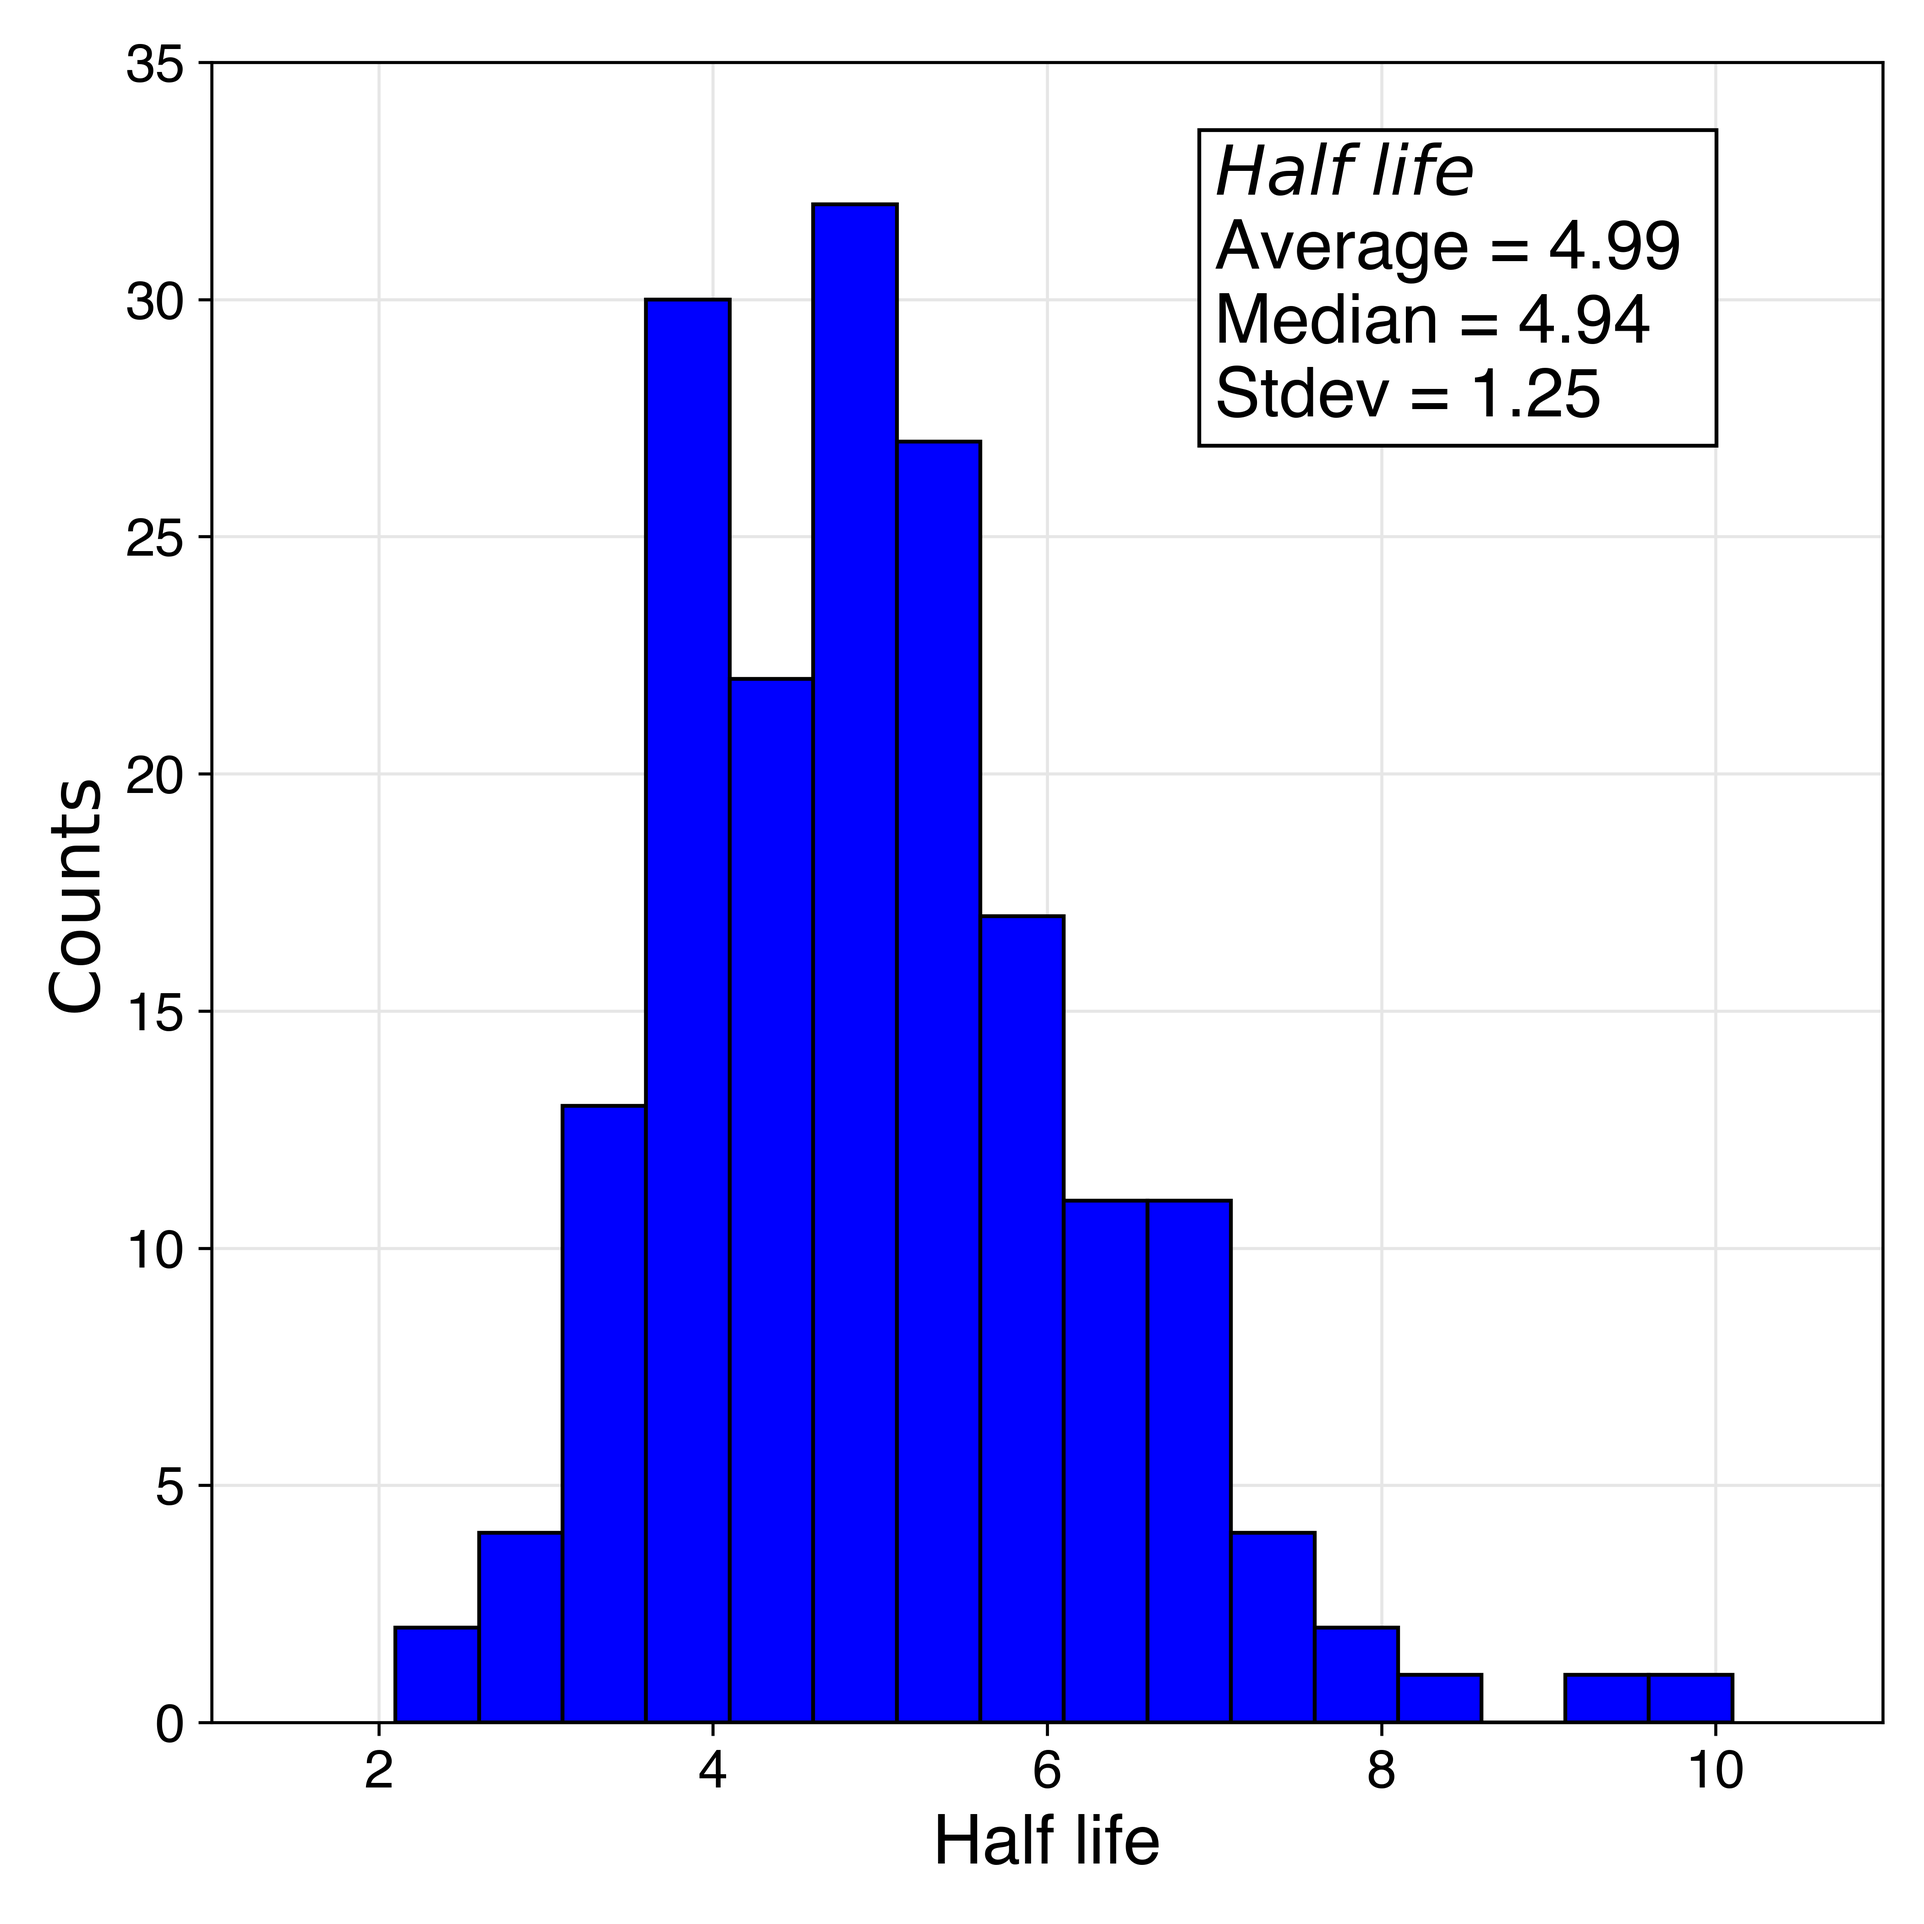
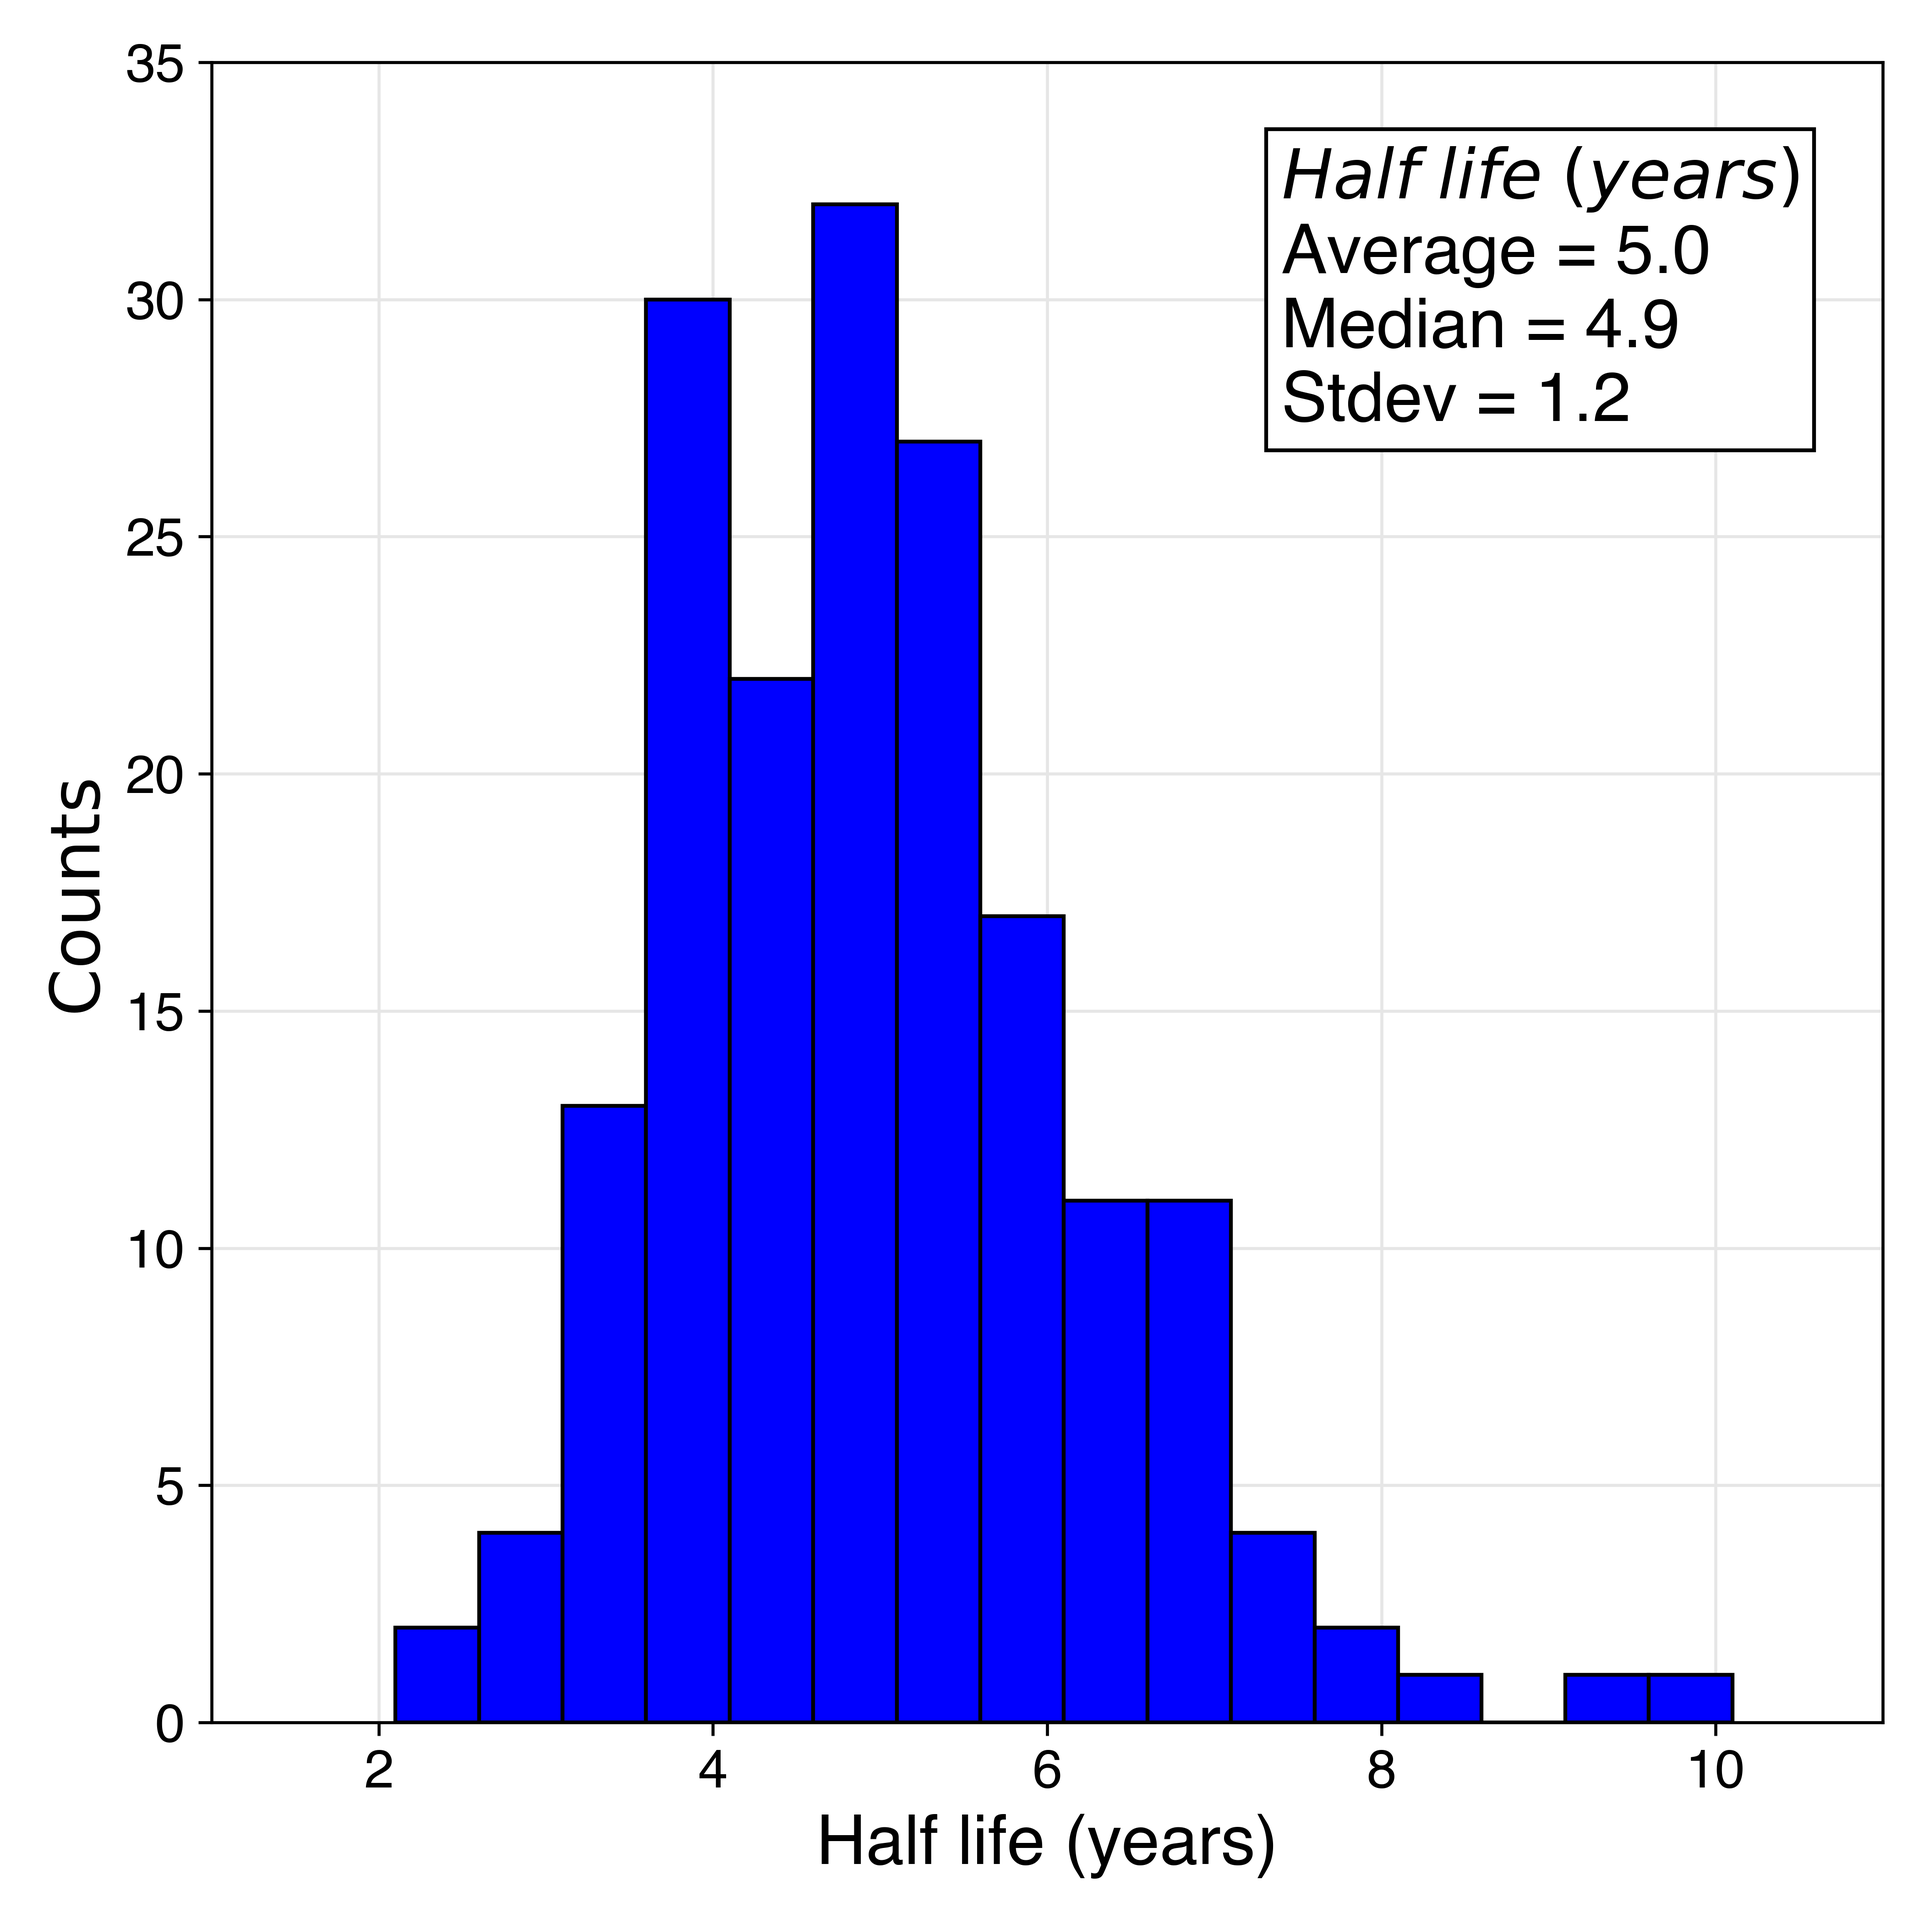
Continued analysis

Changed region(s): [[0.6238, 0.0624, 0.9357, 0.2495], [0.4055, 0.9357, 0.655, 0.9669]]

diff --git a/flaskapp/flask_dealsonwheels/templates/output.html b/flaskapp/flask_dealsonwheels/templates/output.html
@@ -49,10 +49,10 @@
 
 
     <div class="starter-template">
-        <div class="row">
-        <div class="col-lg-6">
+        <div class="row justify-content-around">
+            <div class="child inline-block-child">
             
-            <img src={{url_for('static', filename=input_model_filename)}} alt="Depreciation curve" width="900" height="650" align="left">
+            <img src={{url_for('static', filename=input_model_filename)}} alt="Depreciation curve" width="900" height="700" align="left">
 
                 </table>
             </div>

diff --git a/flaskapp/flask_dealsonwheels/views.py b/flaskapp/flask_dealsonwheels/views.py
@@ -42,19 +42,21 @@ make_choices = model_counts_filtered['Make'].unique()
 
 # create global input_make
 global_input_make = None
+global makes
+makes = ['Acura', 'Audi', 'BMW', 'Buick', 'Cadillac', 'Chevrolet',
+         'Chrysler', 'Dodge', 'Ford', 'GMC', 'Honda', 'Hyundai', 'INFINITI',
+         'Jaguar', 'Jeep', 'Kia', 'Land Rover', 'Lexus', 'Lincoln', 'MAZDA',
+         'MINI', 'Maserati', 'Mercedes-Benz', 'Mitsubishi', 'Nissan',
+         'Porsche', 'smart', 'Subaru', 'Toyota', 'Volkswagen', 'Volvo']
+
+
 
 ### DEFINE FUNCTIONS ###
 
 def make_dropdown(input_make):
-    makes = ['Acura', 'Audi', 'BMW', 'Buick', 'Cadillac', 'Chevrolet',
-             'Chrysler', 'Dodge', 'Ford', 'GMC', 'Honda', 'Hyundai', 'INFINITI',
-             'Jaguar', 'Jeep', 'Kia', 'Land Rover', 'Lexus', 'Lincoln', 'MAZDA',
-             'MINI', 'Maserati', 'Mercedes-Benz', 'Mitsubishi', 'Nissan',
-             'Porsche', 'Subaru', 'Toyota', 'Volkswagen', 'Volvo', 'smart']
-
-    # models = np.unique(make_model_list_filtered[make_model_list_filtered['Make'] == makes[int(input_make)]]['Model'].tolist())   
+    # global makes
     models = np.unique(model_counts_filtered[model_counts_filtered['Make'] == makes[int(input_make)]]['Model'].tolist())   
-    
+    models.sort()
     make_name = makes[int(input_make)]
     
     dropdown_html = "<select id=\"input_model\" name=\"input_model\">\n"
@@ -63,20 +65,6 @@ def make_dropdown(input_make):
     dropdown_html += "</select>\n"
     return dropdown_html, make_name
 
-# def get_model_name(input_make, input_model):
-#     model_name = make_model_list_filtered[make_model_list_filtered['Make'] == makes[int(input_make)]]['Model'].tolist()[int(input_model)]
-#     return model_name
-
-
-# def models(input_make):
-#     makes = ['Acura', 'Audi', 'BMW', 'Buick', 'Cadillac', 'Chevrolet',
-#      'Chrysler', 'Dodge', 'Ford', 'GMC', 'Honda', 'Hyundai', 'INFINITI',
-#      'Jaguar', 'Jeep', 'Kia', 'Land Rover', 'Lexus', 'Lincoln', 'MAZDA',
-#      'MINI', 'Maserati', 'Mercedes-Benz', 'Mitsubishi', 'Nissan',
-#      'Porsche', 'Subaru', 'Toyota', 'Volkswagen', 'Volvo', 'smart']
-#     models = make_model_list_filtered[make_model_list_filtered['Make'] == makes[int(input_make)]]['Model'].tolist()   
-#     models.sort()
-#     return models
 
 
 ### DEFINE FLASK FUNCTIONS ###
@@ -90,38 +78,33 @@ def index():
 
 
 
-@app.route('/models')
+@app.route('/models') #, methods = ['GET', 'POST'])           # trying to avoid global variable
 def get_models():
-    # pull car make from user input dropdown
-    makes = ['Acura', 'Audi', 'BMW', 'Buick', 'Cadillac', 'Chevrolet',
-             'Chrysler', 'Dodge', 'Ford', 'GMC', 'Honda', 'Hyundai', 'INFINITI',
-             'Jaguar', 'Jeep', 'Kia', 'Land Rover', 'Lexus', 'Lincoln', 'MAZDA',
-             'MINI', 'Maserati', 'Mercedes-Benz', 'Mitsubishi', 'Nissan',
-             'Porsche', 'Subaru', 'Toyota', 'Volkswagen', 'Volvo', 'smart']
+    global makes
     input_make = request.args.get('input_make')
     global global_input_make 
     global_input_make = input_make
     make_name = makes[int(input_make)]
     (dropdown_html, make_name) = make_dropdown(input_make)
     # global_input_make = None
+    # if request.method == 'POST':                            # trying to avoid global variable
+    #     input_make = request.form.get('input_make')
+    #     return redirect(url_for('output', input_make=input_make))
     return render_template("models.html", input_make=input_make, dropdown_html=dropdown_html, make_name=make_name)
+
 
 
 @app.route('/output')
 def output():
-    makes = ['Acura', 'Audi', 'BMW', 'Buick', 'Cadillac', 'Chevrolet',
-         'Chrysler', 'Dodge', 'Ford', 'GMC', 'Honda', 'Hyundai', 'INFINITI',
-         'Jaguar', 'Jeep', 'Kia', 'Land Rover', 'Lexus', 'Lincoln', 'MAZDA',
-         'MINI', 'Maserati', 'Mercedes-Benz', 'Mitsubishi', 'Nissan',
-         'Porsche', 'Subaru', 'Toyota', 'Volkswagen', 'Volvo', 'smart']
-    
+    global makes
     # pull 'input_model' from input field and store it
     input_model = request.args.get('input_model')
-    # input_make = request.args.get('input_make')
-    input_model_name = model_counts_filtered[model_counts_filtered['Make'] == makes[int(global_input_make)]]['Model'].iloc[int(input_model)]
+    # input_make = request.args.get('input_make', None)       # trying to avoid global variable
+    input_model_name = model_counts_filtered[model_counts_filtered['Make'] == makes[int(global_input_make)]]['Model'].sort_values().iloc[int(input_model)]
     input_model_filename = str(input_model_name) + '.png'
     
     return render_template("output.html", input_model=input_model, input_model_filename=input_model_filename)
+
 
 
 @app.route('/random')
@@ -138,36 +121,8 @@ def random():
 
 
 
-
-
-
-
-
 @app.route('/about')
 def about():
     return render_template("about.html")
 
 
-    
-
-
-
-
-
-
-
-
-# @app.route('/output')
-# def output():
-#   #pull 'birth_month' from input field and store it
-#   patient = request.args.get('birth_month')
-#     #just select the Cesareans  from the birth dtabase for the month that the user inputs
-#   query = "SELECT index, attendant, birth_month FROM birth_data_table WHERE delivery_method='Cesarean' AND birth_month='%s'" % patient
-#   print(query)
-#   query_results=pd.read_sql_query(query,con)
-#   print(query_results)
-#   births = []
-#   for i in range(0,query_results.shape[0]):
-#       births.append(dict(index=query_results.iloc[i]['index'], attendant=query_results.iloc[i]['attendant'], birth_month=query_results.iloc[i]['birth_month']))
-#       the_result = ModelIt(patient,births)
-#       return render_template("output.html", model=model)

diff --git a/scripts/analyze_data_4.py b/scripts/analyze_data_4.py
@@ -25,7 +25,7 @@ average = round(np.nanmean(data), 2)
 median = round(np.nanmedian(data), 2)
 stdev = round(np.std(data), 2)
 props = dict(facecolor='white', edgecolor='none', alpha=0.67, boxstyle='square, pad=1')
-textbox = '$Half$ $life$ \nAverage = %.2f \nMedian = %.2f \nStdev = %.2f' % (average, median, stdev)
+textbox = '$Half$ $life$ $(years)$\nAverage = %.1f \nMedian = %.1f \nStdev = %.1f' % (average, median, stdev)
 
 import numpy as np
 binwidth = 0.5
@@ -33,9 +33,113 @@ xmin = 1
 xmax = 11
 ymin = 0
 ymax = 35
-xlabel = 'Half life'
+xlabel = 'Half life (years)'
 ylabel = 'Counts'
 figure_name = '../images/Depreciation_hist.png'
 
 from plotfunctions import plot_hist
 plot_hist(data, binwidth, textbox, props, xmin, xmax, ymin, ymax, xlabel, ylabel, figure_name)
+
+
+
+
+### Box plots ###
+
+# Box plot: depreciation across brands
+
+# import data - depreciation across models
+depr_summary = pd.read_csv('../data/depreciation/depreciation_by_model.csv')
+depr_summary = pd.read_csv('../data/depr_summary_filtered.csv')
+
+# remove some brands
+indexNames = depr_summary[(depr_summary['Make'] == 'Maserati') | 
+                          (depr_summary['Make'] == 'Jaguar') |
+                          (depr_summary['Make'] == 'smart') |
+                          (depr_summary['Make'] == 'Mitsubishi')].index
+
+depr_summary.drop(indexNames, inplace=True)
+
+# rename some brands
+depr_summary.loc[(depr_summary['Make'] == 'MINI'),'Make'] = 'Mini'
+depr_summary.loc[(depr_summary['Make'] == 'MAZDA'),'Make'] = 'Mazda'
+depr_summary.loc[(depr_summary['Make'] == 'INFINITI'),'Make'] = 'Infinity'
+
+
+# Determine order
+depr_order_brand = depr_summary.groupby('Make').median().sort_values(by='Half life',ascending=True)
+
+# create seaborn box + strip plot
+import seaborn as sns
+import matplotlib.pyplot as plt
+
+fig, ax = plt.subplots(1, 1, figsize = (45,22))
+
+ax = sns.boxplot(x = 'Make', y = 'Half life', data = depr_summary, 
+                 showfliers = False, order = list(depr_order_brand.index), linewidth = 5)
+ax = sns.stripplot(x = 'Make', y = 'Half life', data = depr_summary,
+                 order = list(depr_order_brand.index), jitter = 0.25, size = 15,
+                 linewidth = 3, edgecolor = 'black', alpha = 0.5)
+
+# set axis properties
+plt.xticks(rotation=45, fontname = 'Helvetica', fontsize = 42, ha = 'right')
+plt.yticks(fontname = 'Helvetica', fontsize = 42)
+
+
+plt.xlabel('Car make', fontsize = 55, fontname = 'Arial', fontweight = 'bold')
+plt.ylabel('Half life (years)', fontsize = 55, fontname = 'Arial', 
+           fontweight = 'bold')
+
+ax.set_ylim(2, 8); ax.yaxis.labelpad = 25
+ax.xaxis.set_tick_params(width = 3, length = 15)
+ax.yaxis.set_tick_params(width = 3, length = 15)
+plt.setp(ax.spines.values(), linewidth = 3)
+
+figure_name = '../images/depr_across_brands_R2>0.67.png'
+
+plt.tight_layout()
+plt.savefig(figure_name, dpi = 150)
+
+
+
+
+# Box plot: depreciation across segments
+
+# Determine order
+depr_order_brand = depr_summary.groupby('Body').median().sort_values(by='Half life',ascending=True)
+
+# create seaborn box + strip plot
+import seaborn as sns
+import matplotlib.pyplot as plt
+
+fig, ax = plt.subplots(1, 1, figsize = (20,20))
+
+ax = sns.boxplot(x = depr_order_brand.index, y = depr_order_brand['Half life'], data = depr_order_brand, 
+                 showfliers = False, order = list(depr_order_brand.index), linewidth = 5)
+ax = sns.stripplot(x = depr_order_brand.index, y = depr_order_brand['Half life'], data = depr_order_brand,
+                 order = list(depr_order_brand.index), jitter = 0.25, size = 15,
+                 linewidth = 3, edgecolor = 'black', alpha = 0.5)
+
+# set axis properties
+plt.xticks(rotation=45, fontname = 'Helvetica', fontsize = 42, ha = 'right')
+plt.yticks(fontname = 'Helvetica', fontsize = 42)
+
+
+plt.xlabel('Body type', fontsize = 55, fontname = 'Arial', fontweight = 'bold')
+plt.ylabel('Half life (years)', fontsize = 55, fontname = 'Arial', 
+           fontweight = 'bold')
+
+ax.set_ylim(2, 8); ax.yaxis.labelpad = 25
+ax.xaxis.set_tick_params(width = 3, length = 15)
+ax.yaxis.set_tick_params(width = 3, length = 15)
+plt.setp(ax.spines.values(), linewidth = 3)
+
+figure_name = '../images/depr_across_segment_R2>0.67.png'
+
+plt.tight_layout()
+plt.show()
+
+plt.savefig(figure_name, dpi = 150)
+
+
+
+

diff --git a/scripts/plotfunctions.py b/scripts/plotfunctions.py
@@ -30,14 +30,14 @@ def plot_hist(data, binwidth, textbox, props, xmin, xmax, ymin, ymax, xlabel, yl
     for tick in ax.get_yticklabels():
         tick.set_fontname('Helvetica')
         
-    ax.text(0.6, 0.95, textbox, transform = ax.transAxes, fontsize = 18, 
+    ax.text(0.64, 0.95, textbox, transform = ax.transAxes, fontsize = 18, 
             fontname = 'Helvetica', verticalalignment = 'top', bbox = props)
 
     plt.rcParams['axes.unicode_minus'] = False
     plt.rcParams['axes.unicode_minus'] = False
     plt.grid(); ax.grid(color=(.9, .9, .9)); ax.set_axisbelow(True)
 
-    plt.tight_layout()
+    fig.tight_layout()
 
     plt.savefig(figure_name, dpi = 600)
     plt.show()

diff --git a/scripts/demo_2.py b/scripts/demo_2.py
@@ -16,9 +16,6 @@ listings_data = pd.read_csv('../data/listings5.csv')
 depr_summary = pd.read_csv('../data/depreciation/depreciation_by_model_2.csv')
 
 
-
-
-
 ### PRE-PROCESS DATA ###
 
 # exclude models older than 
